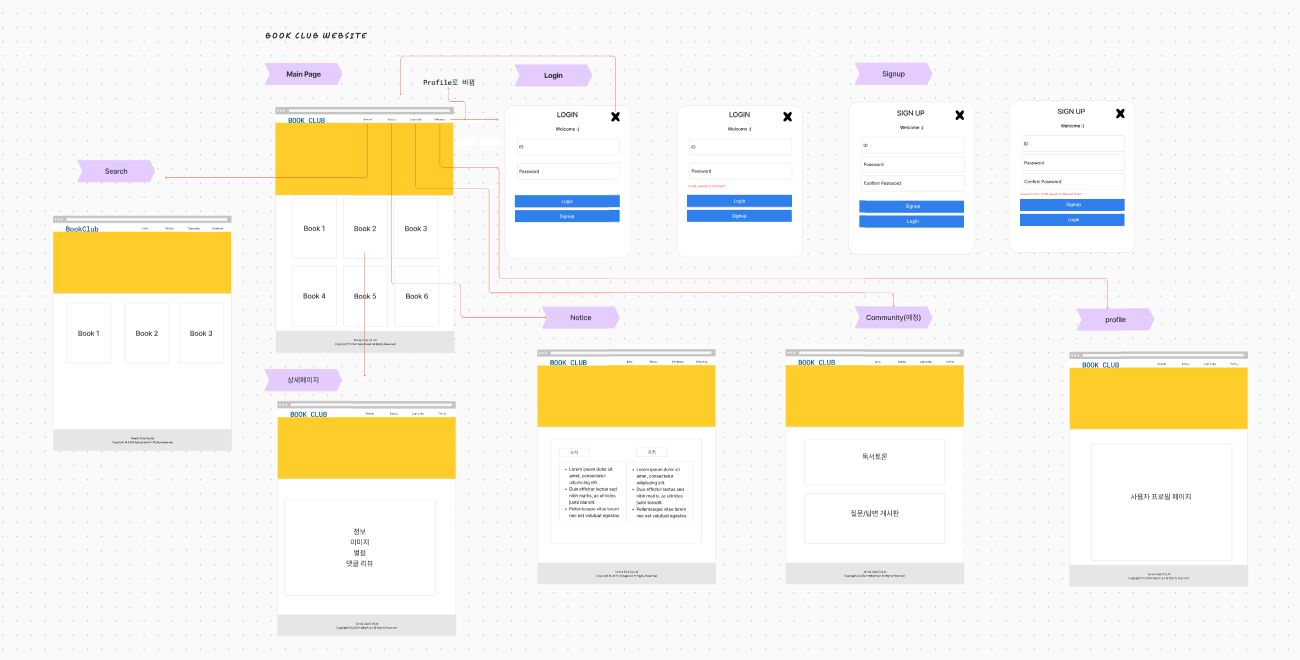
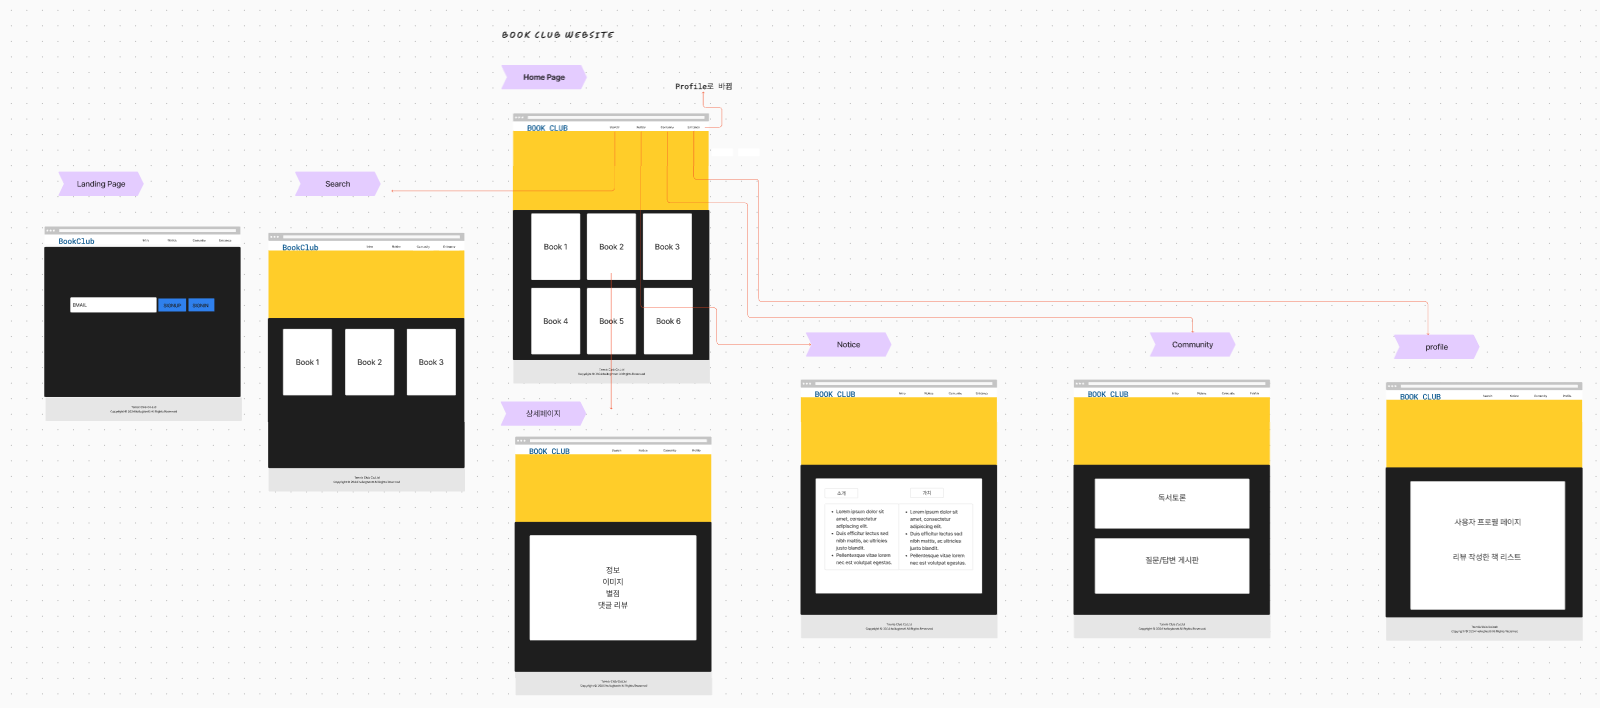
readme pageboard 수정

diff --git a/mybookclub/src/styles/global.css b/mybookclub/src/styles/global.css
@@ -483,9 +483,7 @@ Button {
 
 /* homepage */
 .search-box {
-  display: flex;
-  flex-direction: column;
   margin-bottom: 20px;
   align-items: center;
-  justify-items: center;
+  display: flex;
 }

diff --git a/README.md b/README.md
@@ -62,53 +62,7 @@ gantt
 
 ## 5. 와이어프레임 작성
 
-![alt text](./media/image/figma_pageboard.png)
-
-+------------------+ +------------------+ +------------------+
-| LandingPage | | HomePage | | SearchBook |
-| | | | | |
-| +--------------+ | | +--------------+ | | +--------------+ |
-| | Login Form | | | | Featured | | | | Search Bar | |
-| | | | | | Books | | | | | |
-| +--------------+ | | +--------------+ | | +--------------+ |
-| +--------------+ | | +--------------+ | | +--------------+ |
-| | Sign Up Form | | | | Latest | | | | Book List | |
-| | | | | | Reviews | | | | | |
-| +--------------+ | | +--------------+ | | | | |
-| | | +--------------+ | | | | |
-| | | | Popular | | | | | |
-| | | | Books | | | +--------------+ |
-+------------------+ +------------------+ +------------------+
-
-+------------------+ +------------------+ +------------------+
-| BookDetail | | ProfilePage | | Community |
-| | | | | |
-| +--------------+ | | +--------------+ | | +--------------+ |
-| | Book Info | | | | User Info | | | | Post List | |
-| | | | | | | | | | | |
-| +--------------+ | | +--------------+ | | +--------------+ |
-| +--------------+ | | +--------------+ | | +--------------+ |
-| | Reviews | | | | User Reviews | | | | Create Post | |
-| | | | | | | | | | | |
-| +--------------+ | | +--------------+ | | +--------------+ |
-| +--------------+ | | +--------------+ | | +--------------+ |
-| | Add to | | | | Reading List | | | | Post Detail | |
-| | Reading List | | | | | | | | & Comments | |
-| +--------------+ | | +--------------+ | | +--------------+ |
-+------------------+ +------------------+ +------------------+
-
-+------------------+
-| AboutPage |
-| |
-| +--------------+ |
-| | Company Info | |
-| | | |
-| | | |
-| | | |
-| | | |
-| | | |
-| +--------------+ |
-+------------------+
+![PageBoard](.\public\image\figma_pageboard.png)
 
 | 도서 관리                                                              | 사용자 상호작용                                                                            |
 | ---------------------------------------------------------------------- | ------------------------------------------------------------------------------------------ |
